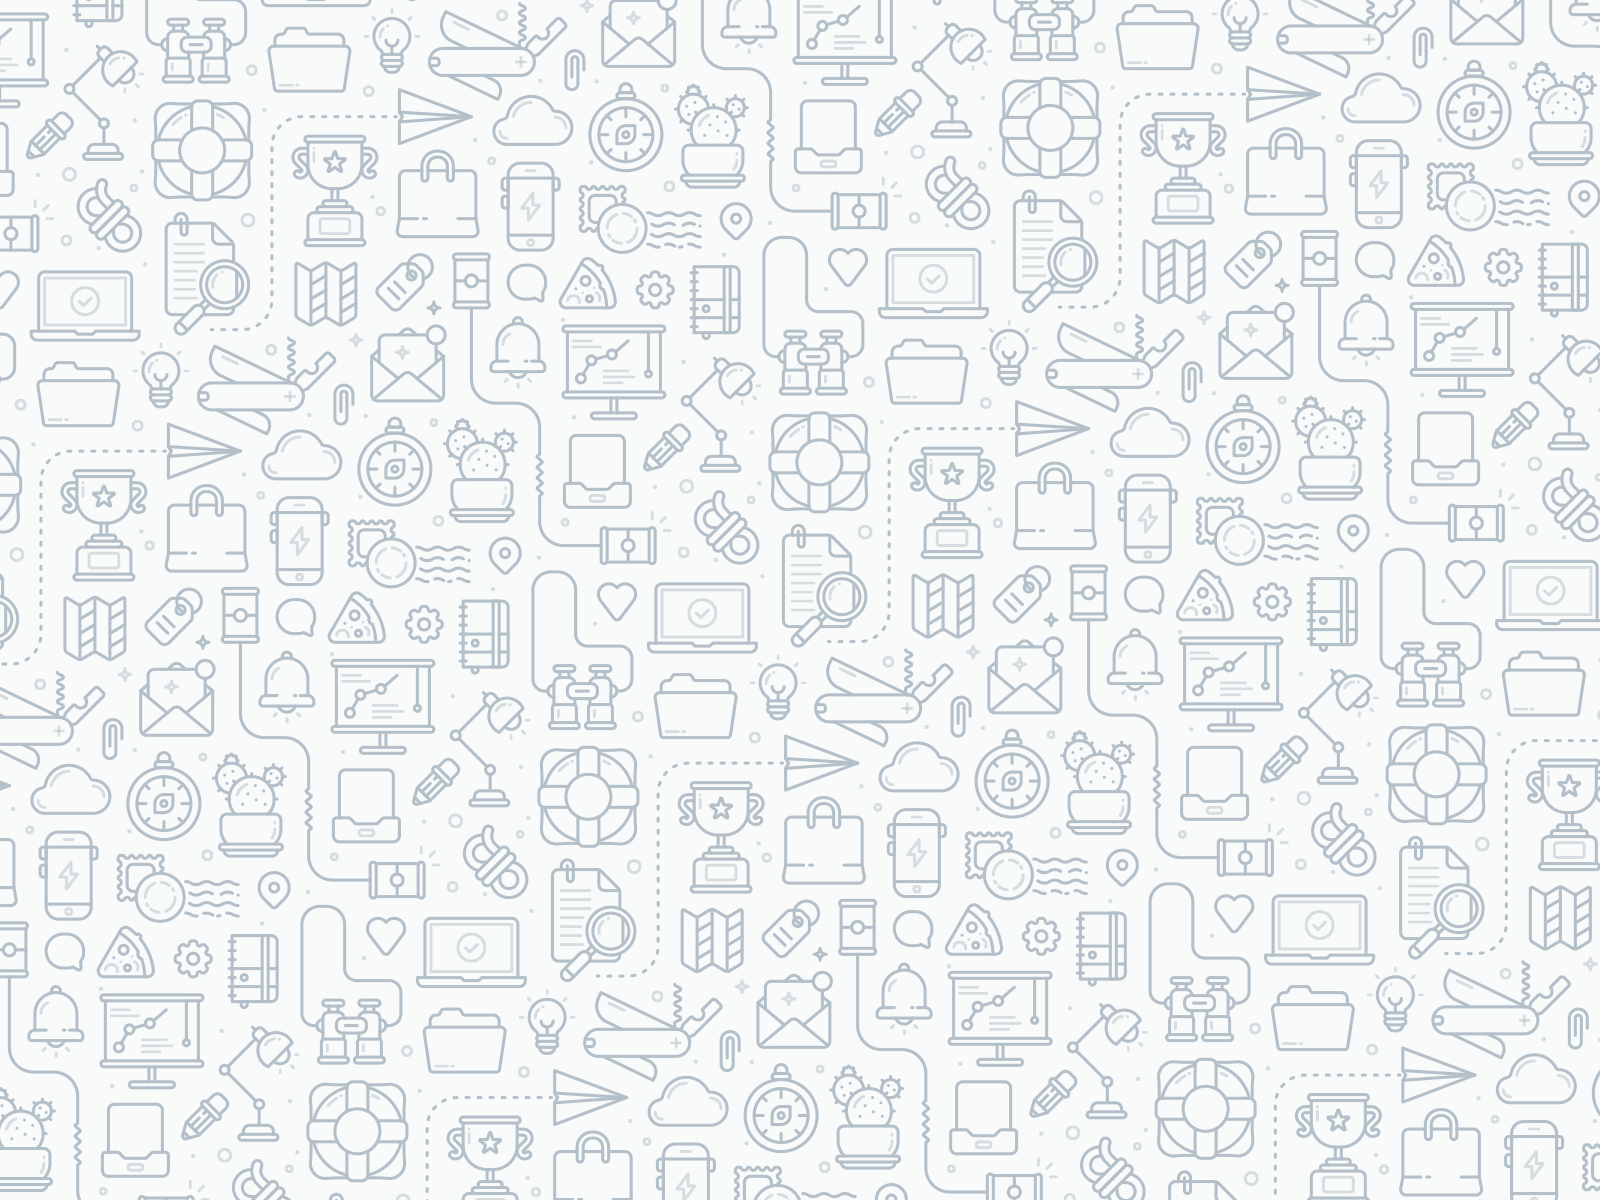
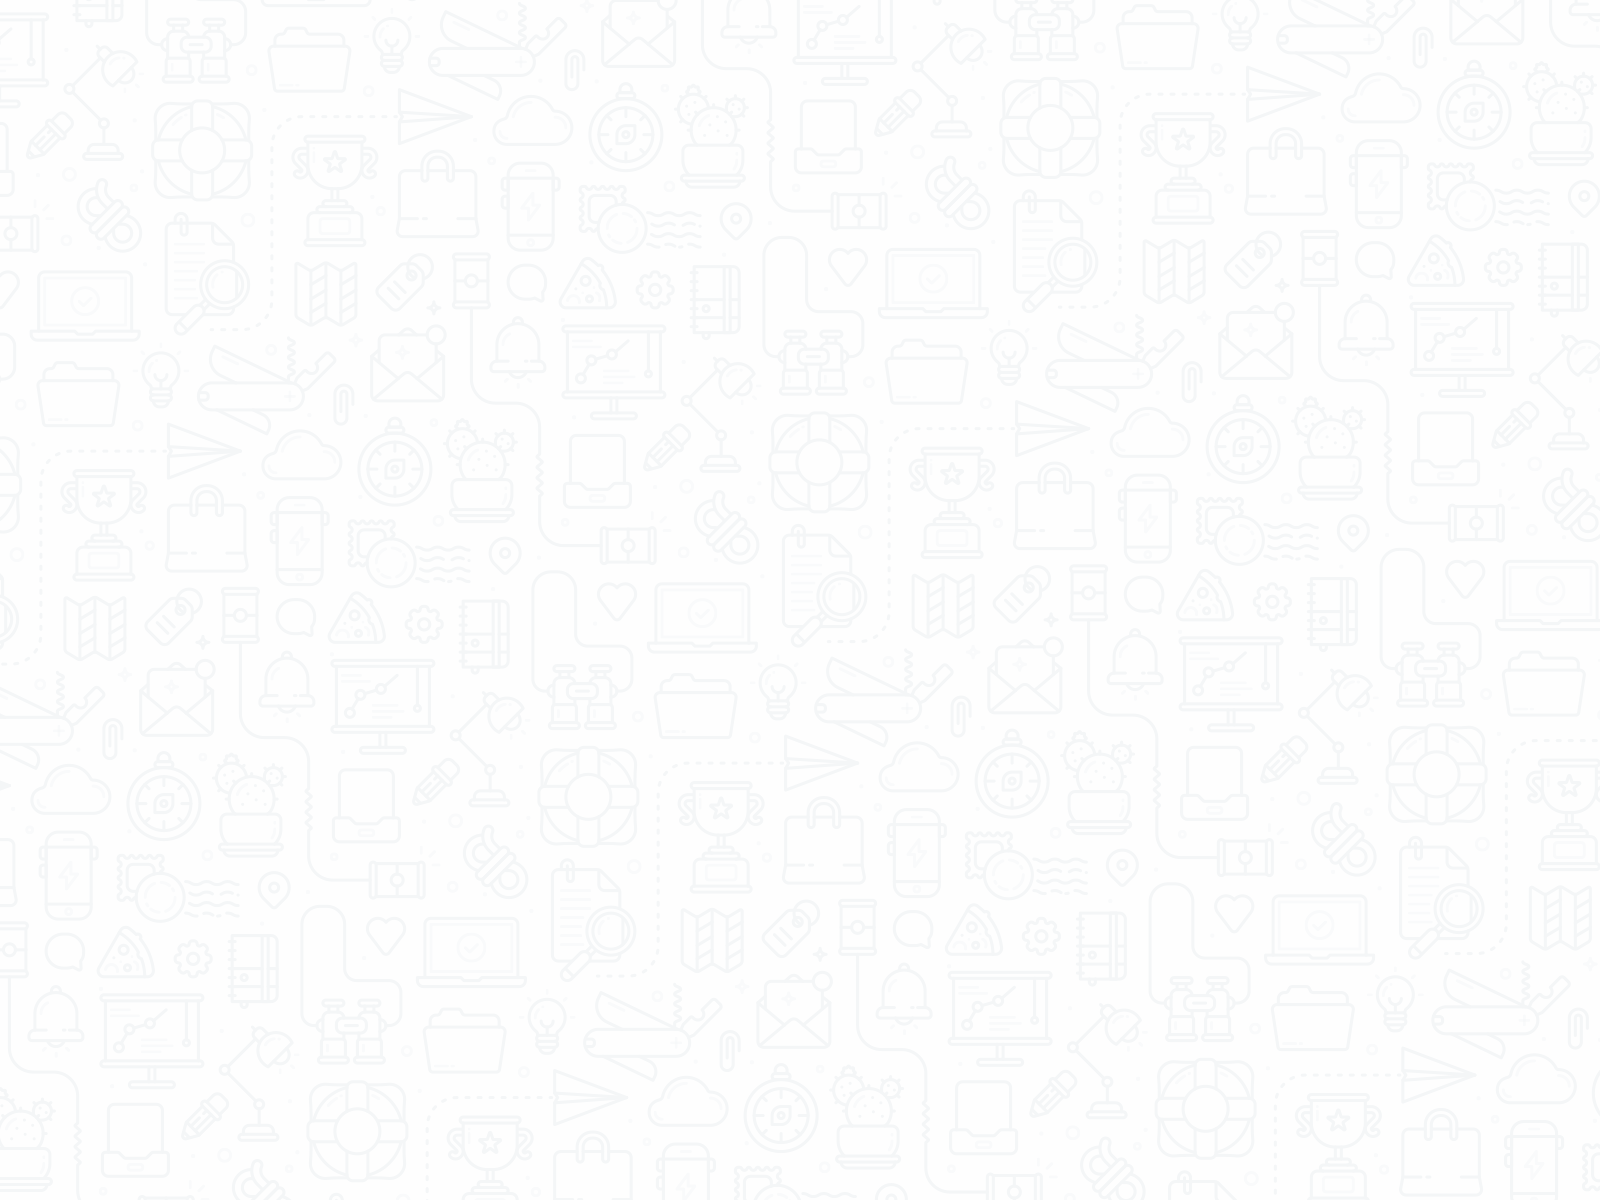
Подключил свой css, сделал фон

Changed region(s): [[0.0, 0.0, 1.0, 1.0]]

diff --git a/answers/static/base.html b/answers/static/base.html
@@ -1,10 +1,11 @@
+{% load static %}
 <!DOCTYPE html>
 <html class="h-100">
 <head>
     <meta charset="utf-8" />
     <meta name="viewport" content="width=device-width, initial-scale=1, shrink-to-fit=no">
     <meta name="robots" content="noindex">
-
+    <link rel="stylesheet" href="{% static 'main.css' %}">
     <title>{% block title %}Default title{% endblock title %}</title>
     {# Load the tag library #}
     {% load bootstrap4 %}

diff --git a/answers/static/main.css b/answers/static/main.css
@@ -1,3 +1,3 @@
 body{
-    background: url(icon-pattern-gray.png) repeat-y, repeat-x;
+    background: url(icon-pattern-gray.png) repeat;
 }

diff --git a/answers_zone_prj/settings.py b/answers_zone_prj/settings.py
@@ -126,5 +126,7 @@ USE_TZ = True
 # https://docs.djangoproject.com/en/3.0/howto/static-files/
 
 STATIC_URL = '/static/'
-
+STATICFILES_DIRS = [
+    os.path.join(BASE_DIR, 'answers', 'static')
+]
 
